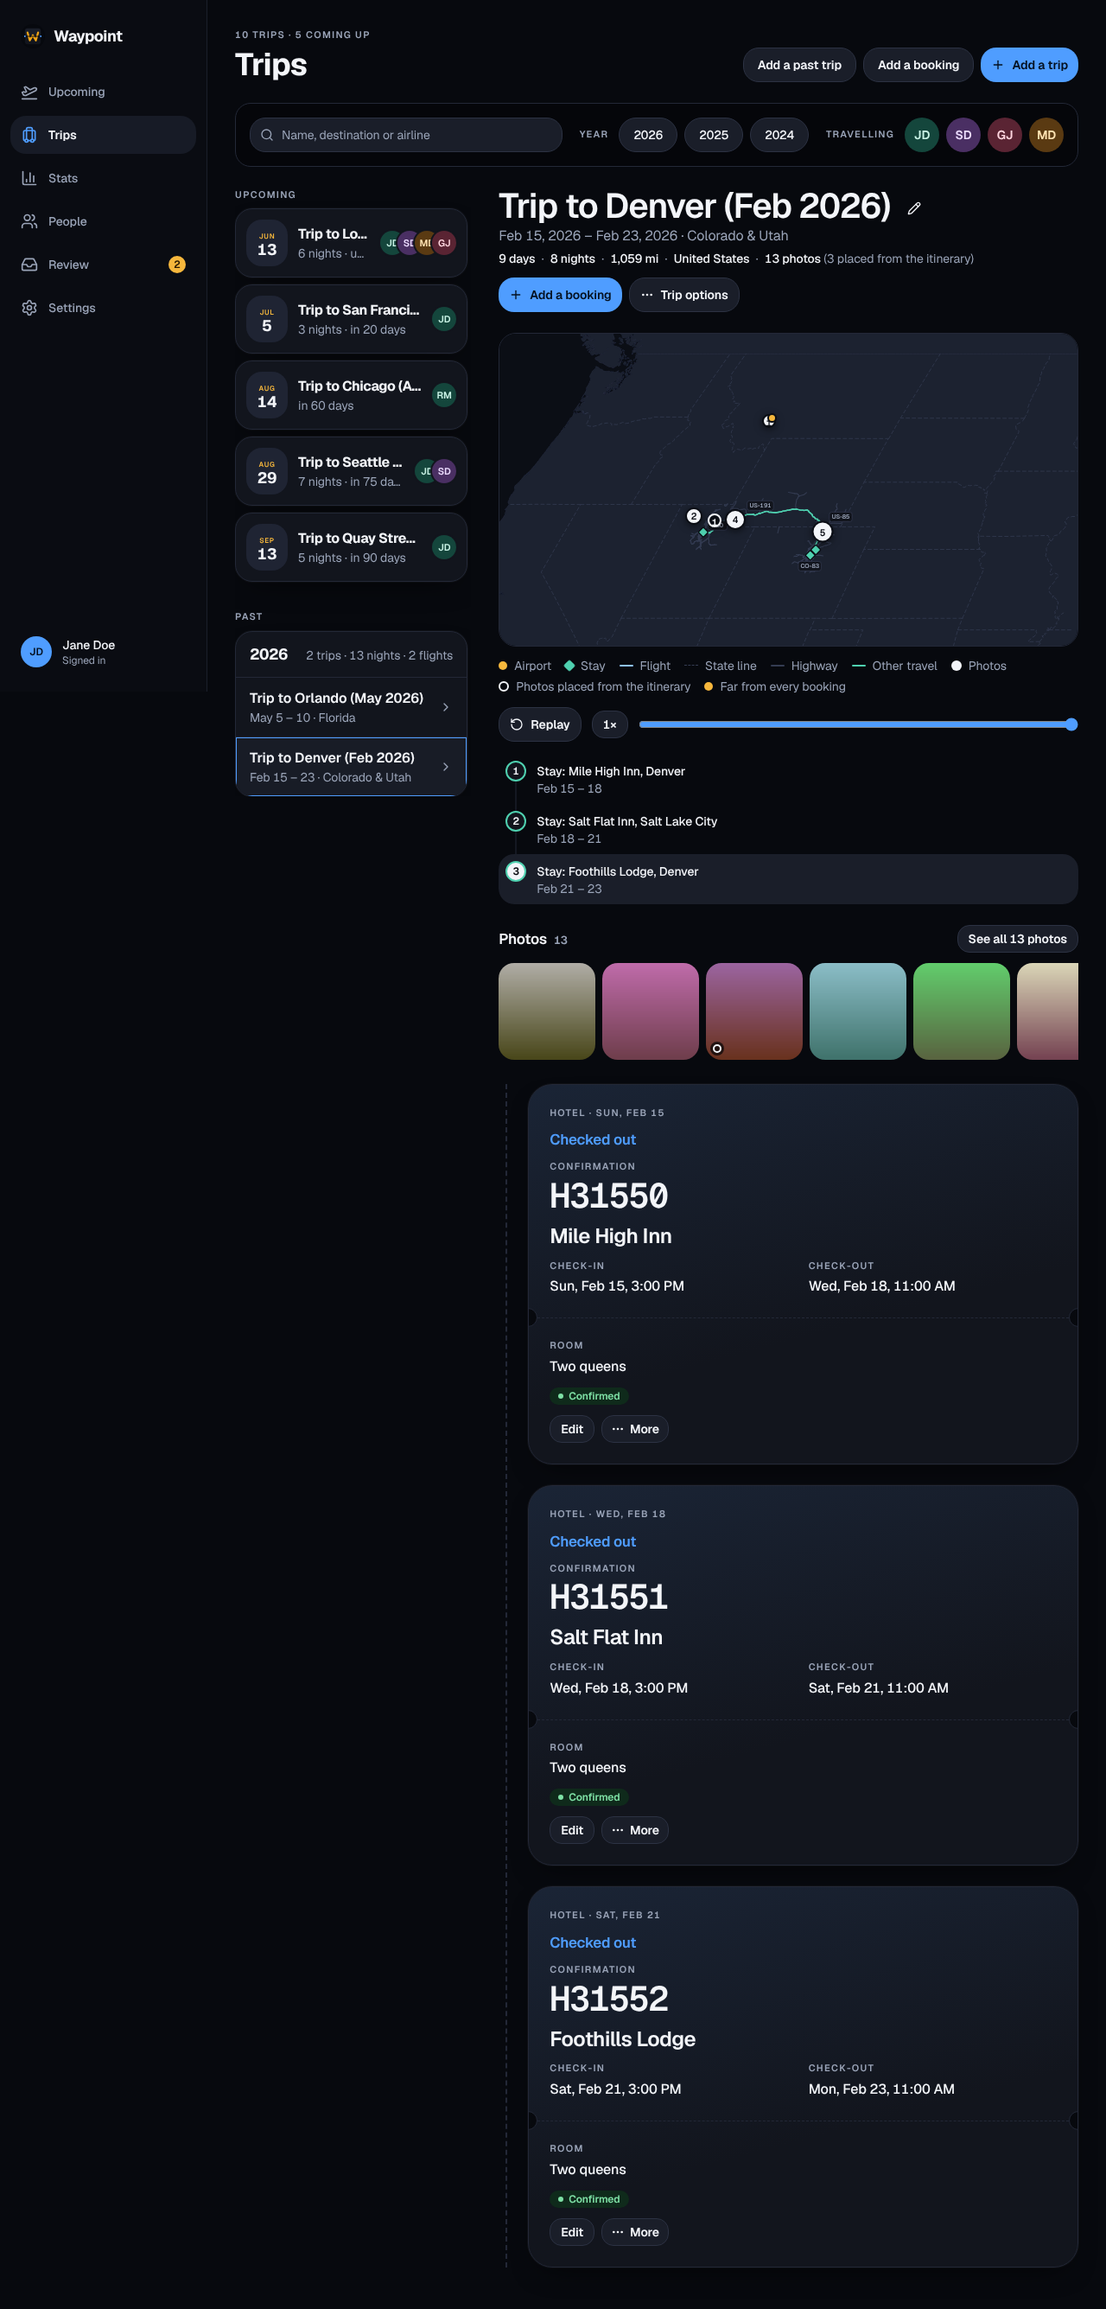
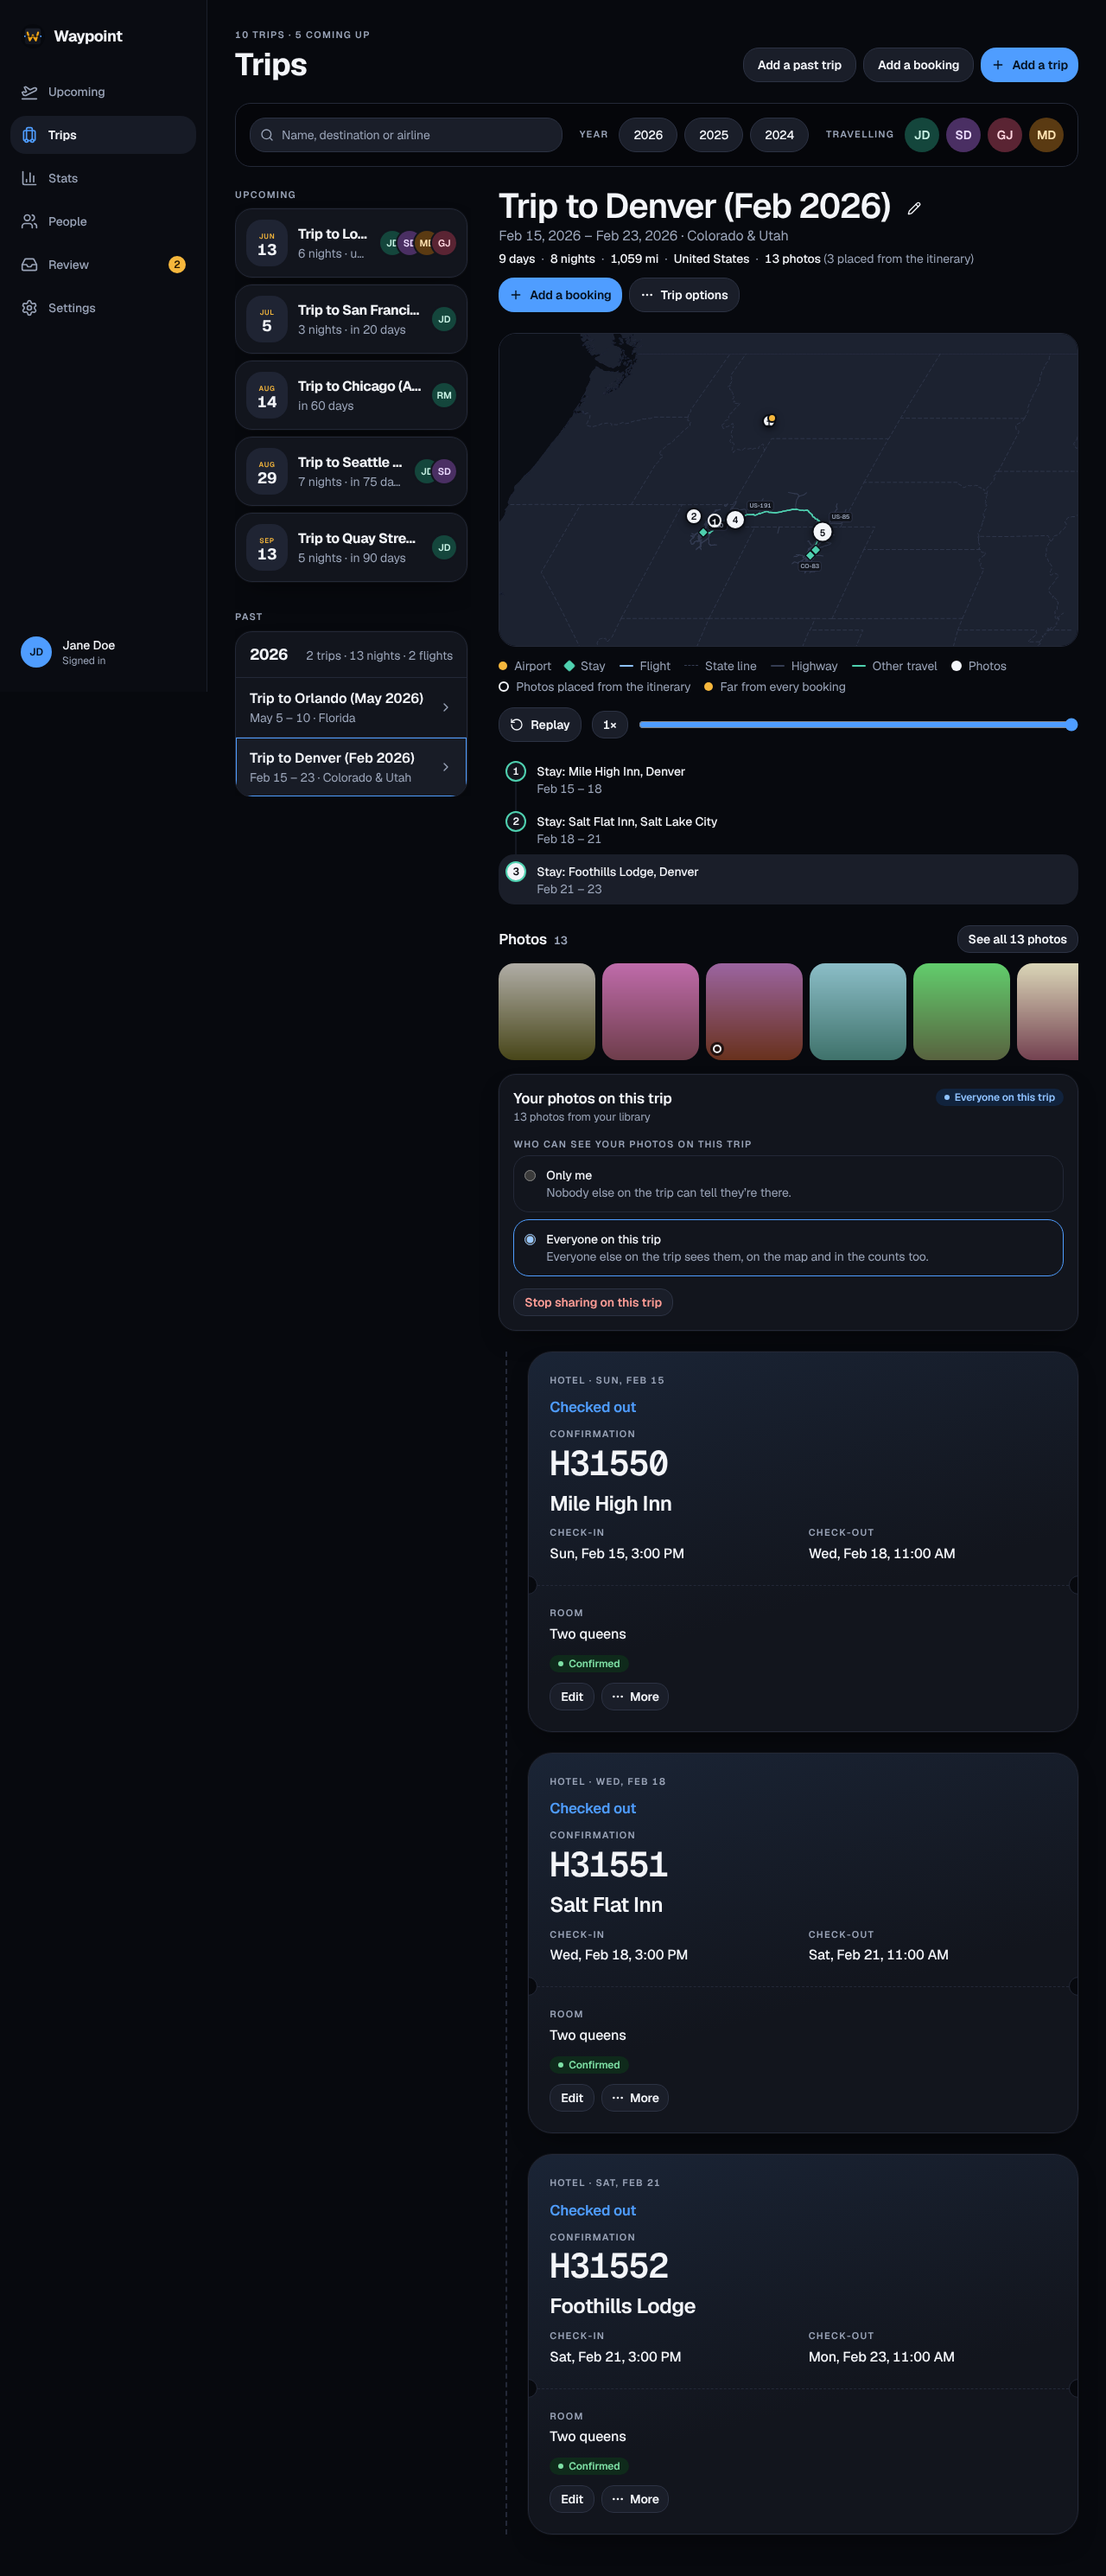
test: verify flows and trip images for the sharing card
The trip page's committed images now show Your photos on this trip beside the photo pins. The sharing flow is split by width (it changes the trip it runs on, and flows share one demo server).

Claude-Session: https://claude.ai/code/session_01VkTLMaRYAHGUMQLTkxcTjb

diff --git a/.claude/skills/verify-waypoint/references/feature-map.md b/.claude/skills/verify-waypoint/references/feature-map.md
@@ -256,10 +256,18 @@ What a person can do in the web app, by page: what is there, how to reach it, ho
 - **Console errors it expects:** `Applying inline style violates the following Content Security Policy`, `Blocked script execution in`.
 - **Drive it:** `tools/control flow photos-signed-in`; or `poetry run python run.py verify --flow photos-signed-in`.
 
+#### `photos-trip-sharing-desktop`
+
+- **Starts at:** `#trips`; goes to: `#trip/5`, `#trip/7`.
+- **Widths:** desktop.
+- **Expects to see:** `Only you see this. Nothing from your library is on the trip until you share it.`, `aren’t on it. Only you see this.`, `right away, for everyone: the gallery, the map, the replay and the trip’s counts.`, `Denver`, `13 photos from your library`, `Everyone on this trip`.
+- **Console errors it expects:** `Applying inline style violates the following Content Security Policy`, `Blocked script execution in`.
+- **Drive it:** `tools/control flow photos-trip-sharing-desktop`; or `poetry run python run.py verify --flow photos-trip-sharing-desktop`.
+
 #### `photos-trip-sharing`
 
 - **Starts at:** `#trips`; goes to: `#trip/2`, `#trip/7`.
-- **Widths:** phone, desktop.
+- **Widths:** phone.
 - **Expects to see:** `Only you see this. Nothing from your library is on the trip until you share it.`, `aren’t on it. Only you see this.`, `right away, for everyone: the gallery, the map, the replay and the trip’s counts.`, `Denver`, `13 photos from your library`, `Everyone on this trip`.
 - **Console errors it expects:** `Applying inline style violates the following Content Security Policy`, `Blocked script execution in`.
 - **Drive it:** `tools/control flow photos-trip-sharing`; or `poetry run python run.py verify --flow photos-trip-sharing`.
